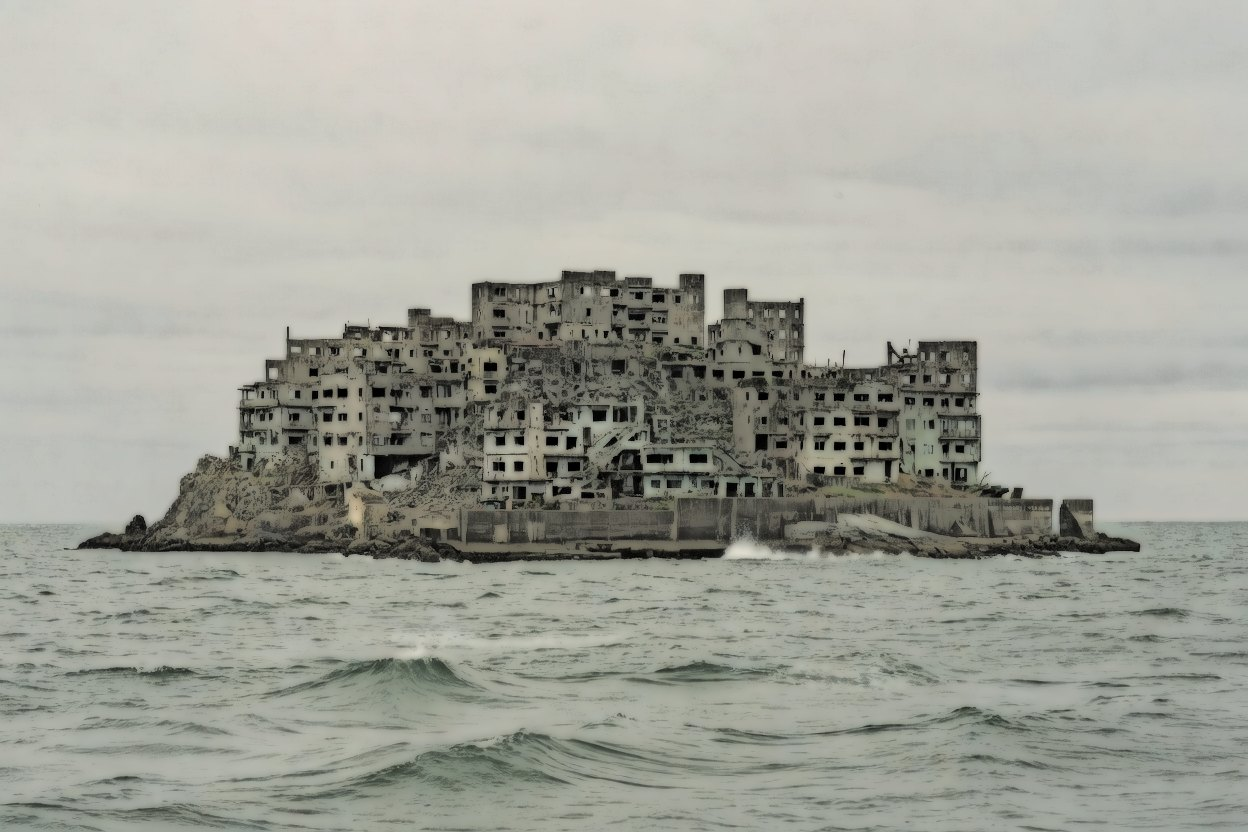
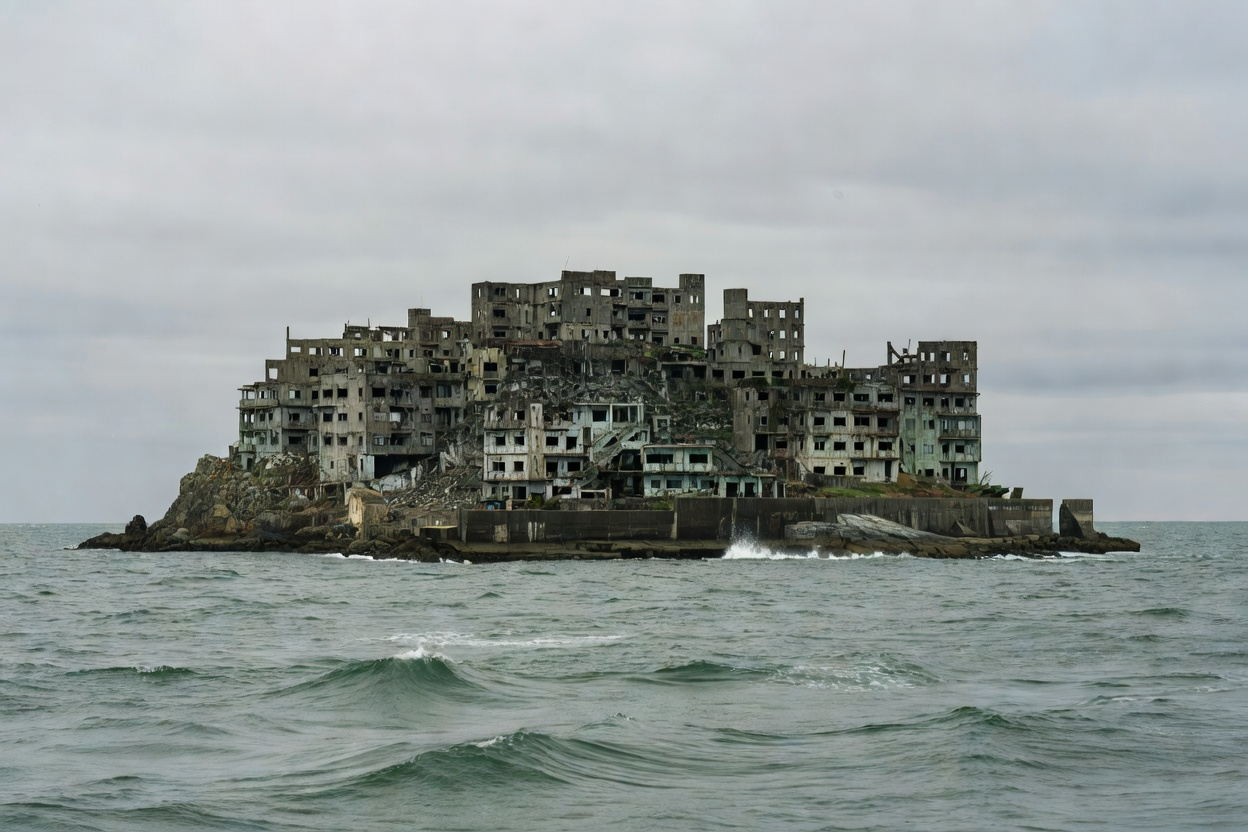
feat: 圖片統一為照片風格，並調整封面副標對比
使用者裁示圖片走照片風格（不做素描化）。原因是六張裡有兩張是夜景，
素描化靠暗部提線條，夜景先天吃虧會糊掉；而提供的版面參考本來就是照片驅動的。

- 六張全部換成 xAI 產的寫實照片，quality 79、progressive，總量 985 KB
- 封面副標原本用 --sky（偏藍灰），壓在亮沙灘那一行對比不足 → 改 #3d3931
- 圖說不再標註 AI 生成（使用者裁示）

Claude-Session: https://claude.ai/code/session_01M62fTDAwfJdr5toZsxE9T5

Changed region(s): [[0.0, 0.3125, 1.0, 1.0]]

diff --git a/2026fukuoka/index.html b/2026fukuoka/index.html
@@ -287,7 +287,7 @@ header.hero{position:relative;isolation:isolate;padding:132px 0 156px;overflow:h
 .tear{position:absolute;left:0;right:0;bottom:-1px;width:100%;height:92px;z-index:-1;display:block}
 header.hero .wrap{text-align:center}
 header.hero h1,header.hero .kicker,header.hero .eyebrow{text-shadow:0 1px 14px rgba(242,236,224,.85),0 0 3px rgba(242,236,224,.9)}
-header.hero .kicker{margin-left:auto;margin-right:auto;max-width:44ch}
+header.hero .kicker{margin-left:auto;margin-right:auto;max-width:44ch;color:#3d3931}
 header.hero .factbar{margin-top:64px;background:rgba(242,236,224,.42);backdrop-filter:blur(2px)}
 header.hero .fact dt{color:#4a453c}
 header.hero .fact dt,header.hero .fact dd{text-shadow:0 1px 10px rgba(242,236,224,.9)}
